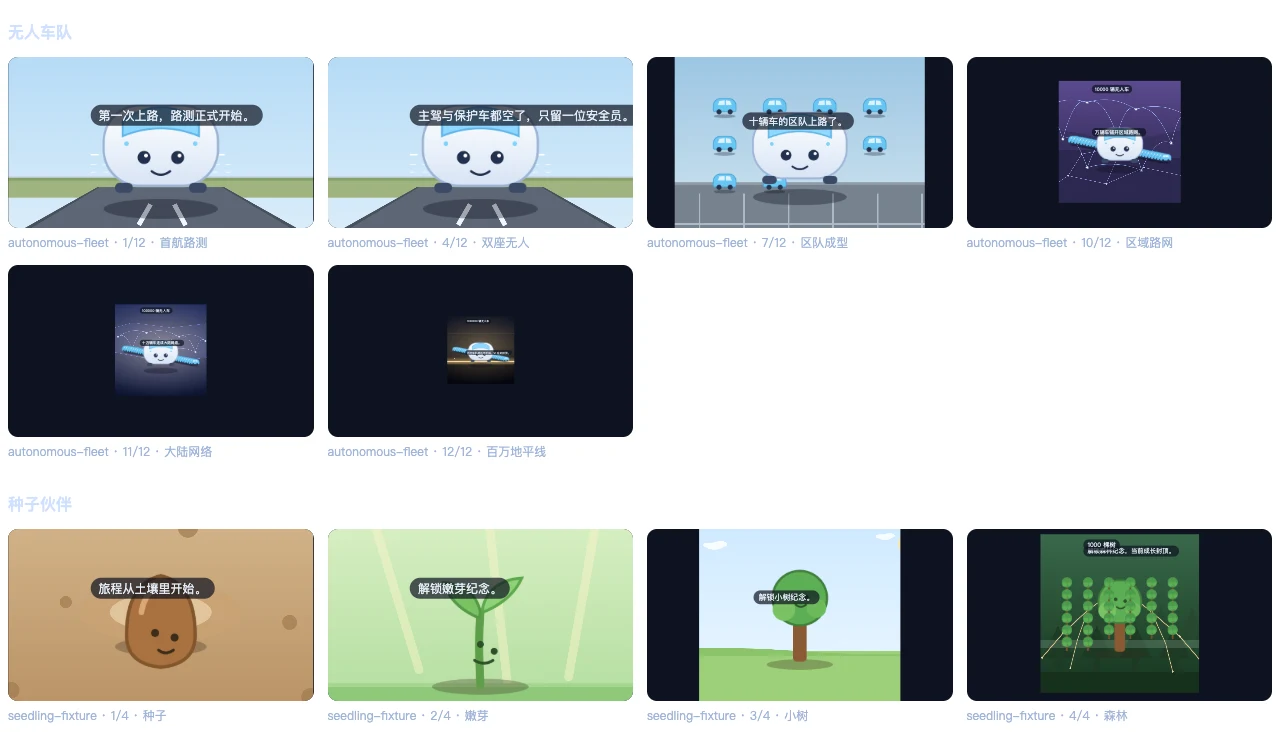
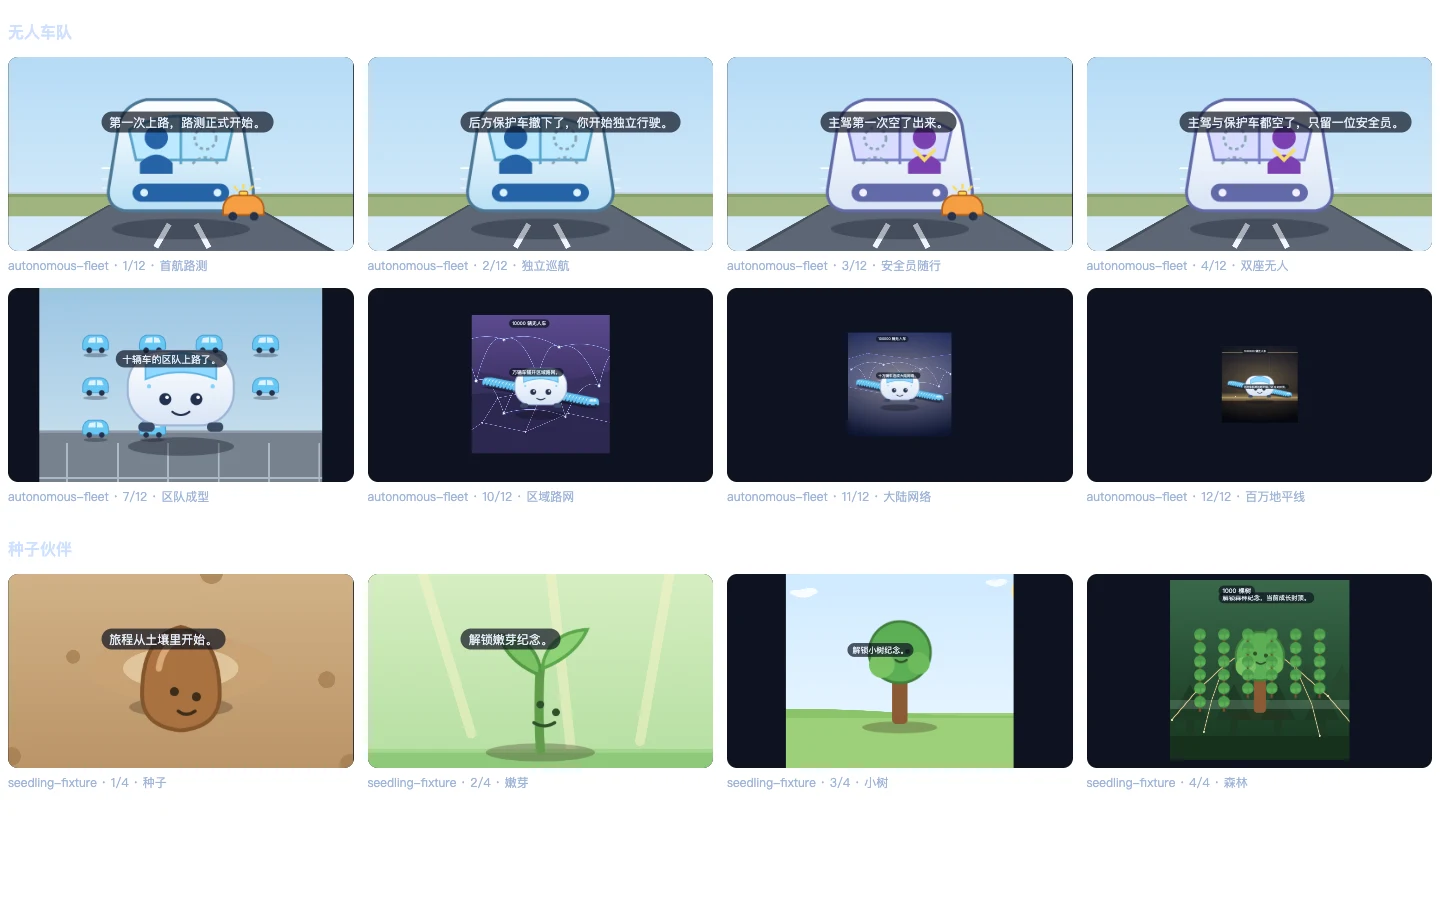
docs: record pr3 r1 blocker conformance

diff --git a/docs/conformance/CONFIGURABLE_PET_ENGINE_V1_CONFORMANCE.md b/docs/conformance/CONFIGURABLE_PET_ENGINE_V1_CONFORMANCE.md
@@ -8,8 +8,9 @@ GOVERNING_SPEC = CONFIGURABLE_PET_ENGINE_V1
 GOVERNING_SPEC_ACCEPTED_HEAD = 6b28e0b4a243384dd84198d74cce9c5f9e2b1dba
 CORE_AND_FLEET_COMMIT = b8d8e5b5e2ccb3a16128a135718eec91fc5ba0d6
 SEEDLING_CONFORMANCE_COMMIT = ed96e1ec7a77e7a54f797dd02b70057faf678d34
+AMENDMENT_R1 = 868bd0a414f4f15410924dc091ba9d2c8c613ee5
 ENVIRONMENT = macOS arm64, Node.js 22, pnpm 10.28.1, local Chrome
-EVALUATED_AT = 2026-08-22T07:00:00Z
+EVALUATED_AT = 2026-08-22T07:44:52Z
 IMPLEMENTATION_STATE = COMPLETE
 VERIFICATION_STATE = SUFFICIENT (author-run local evidence)
 CONFORMANCE = VERIFIED (author evaluation; not an independent audit)
@@ -21,11 +22,11 @@ CONTRACTS_DRIFTED = 0
 CONTRACTS_UNKNOWN = 0
 CONTRACTS_NOT_APPLICABLE = 0
 AUTHOR_CONFORMANCE_EVIDENCE = PASS
-INDEPENDENT_ENGINE_AUDIT = NOT_RUN
-INDEPENDENT_EXPERIENCE_AUDIT = NOT_RUN
+INDEPENDENT_ENGINE_AUDIT = REQUEST_CHANGES (R1 reviewed 2512398cfcb47ea450354a8675473620fdac8318)
+INDEPENDENT_EXPERIENCE_AUDIT = REVISE (R1 reviewed 2512398cfcb47ea450354a8675473620fdac8318)
 ```
 
-This record evaluates the product code at `ed96e1ec7a77e7a54f797dd02b70057faf678d34`. The documentation commit containing this record does not alter evaluated product behavior. `VERIFIED` below means the author linked an executed local Observation to the pinned Contract; it does **not** claim independent review.
+This record evaluates the amended product code at `868bd0a414f4f15410924dc091ba9d2c8c613ee5`. The documentation commit containing this record does not alter evaluated product behavior. `VERIFIED` below means the author linked an executed local Observation to the pinned Contract; it does **not** claim independent review.
 
 ## Executed observations
 
@@ -33,12 +34,12 @@ This record evaluates the product code at `ed96e1ec7a77e7a54f797dd02b70057faf678
 |---|---|---|---|
 | `OBS-IMP-001` | `pnpm typecheck` | PASS | TypeScript production, tests, and tool configs; local environment only. |
 | `OBS-IMP-002` | `pnpm lint` | PASS, 0 warnings/errors | `src`, `tests`, `scripts`; static lint is not runtime proof. |
-| `OBS-IMP-003` | `pnpm test` | PASS, 13 files / 124 tests | Unit/integration with fake IndexedDB; simulated same-origin concurrency. |
-| `OBS-IMP-004` | `pnpm test:e2e` | PASS, 8 browser scenarios | Local Chrome, local Vite resources only; author-run. |
+| `OBS-IMP-003` | `pnpm test` | PASS, 24 files / 152 tests | Unit/DOM integration with fake IndexedDB; simulated same-origin concurrency and mounted renderer measurements. |
+| `OBS-IMP-004` | `pnpm test:e2e` | PASS, 12 browser scenarios | Local Chrome, local Vite resources only; includes clean product route, Fleet L1–L4 visual distinction, and live locale/lang synchronization. |
 | `OBS-IMP-005` | `pnpm build` | PASS | Vite production build including both Packs. |
 | `OBS-IMP-006` | `pnpm check:contracts` | PASS, 14 checks | Mechanical dependency, vocabulary, and forbidden-capability checks. |
-| `OBS-IMP-007` | `pnpm assets:check` | PASS, 46 assets | Re-generated 28 fleet and 18 seedling assets and compared bytes/pixels/metadata. |
-| `OBS-IMP-008` | `verify_governance.py --require-accepted` | PASS | Vendored governance accepted and byte-matched lock at the implementation base. |
+| `OBS-IMP-007` | `pnpm assets:check` | PASS, 54 assets | Re-generated 36 fleet and 18 seedling assets and compared bytes/pixels/metadata. |
+| `OBS-IMP-008` | `verify_governance.py --target . --require-accepted` | PASS | Vendored governance accepted and byte-matched lock at the implementation base. |
 | `OBS-IMP-009` | changed-path diff for Commit 2 | PASS, `src/engine/**` and `src/react/**` changes = 0 | Proves the second Pack was added without Engine/React/schema edits. |
 | `OBS-IMP-010` | browser showcase capture | PASS | Author-generated visual board; not an independent experience audit. |
 
@@ -95,12 +96,42 @@ This record evaluates the product code at `ed96e1ec7a77e7a54f797dd02b70057faf678
 
 ## Visual evidence
 
-[`CONFIGURABLE_PET_ENGINE_V1_SHOWCASE.webp`](CONFIGURABLE_PET_ENGINE_V1_SHOWCASE.webp) contains the required ten states:
+[`CONFIGURABLE_PET_ENGINE_V1_SHOWCASE.webp`](CONFIGURABLE_PET_ENGINE_V1_SHOWCASE.webp) contains twelve states:
 
-- autonomous-fleet: L1, L4, L7, L10, L11, L12;
+- autonomous-fleet: L1, L2, L3, L4, L7, L10, L11, L12, including the four frozen road-test states side-by-side;
 - seedling-fixture: seed, sprout, tree, forest.
 
 The image is an author-generated observation (`OBS-IMP-010`), not an independent experience audit.
+
+## Amendment R1 — independent audit blocker closure
+
+```text
+AMENDMENT_R1 = 868bd0a414f4f15410924dc091ba9d2c8c613ee5
+BLOCKERS_ADDRESSED = E01,E02,E03,E04,E05,E06,E07,E08,E09,E10,X01,X02,X03
+NEW_TESTS = 32
+PNPM_VERIFY = PASS (152 unit/DOM tests; 12 E2E scenarios; 14 contract checks; 54 deterministic assets)
+GOVERNANCE_REQUIRE_ACCEPTED = PASS
+GIT_DIFF_CHECK = PASS
+SPEC_DRIFT = NO
+```
+
+| Blocker | Corrective implementation | Independent, fail-capable regression evidence | R1 result |
+|---|---|---|---|
+| `E01` | Flat renderer nodes and final mounted-DOM budgeting; explicit per-population metadata. | `e01-renderer-dom-budget.test.tsx` mounts Fleet L8–L12 and seedling forest, counts root plus descendants and every real population group. | CLOSED: every scene ≤64 elements; every population ≤32 representatives. |
+| `E02` | Storage adapters atomically claim the complete deterministic receipt batch. | `engine-r1-regressions.test.ts` races two simulated tabs for an exact L3→L8 batch. | CLOSED: one batch winner and at most one merged ceremony. |
+| `E03` | Reduced scene and ceremony paths suppress animation, transform, translate, scale, transitions, pseudo-particles, and camera movement. | `e03-reduced-motion.test.tsx` inspects mounted renderer and actual `UpgradeCeremony` computed styles. | CLOSED. |
+| `E04` | Greeting attempt key is `(sourceId, subjectId, localDay)`; visibility and every interaction remain eligible recheck events. | `greeting-lifecycle.test.tsx` covers midnight-before-interaction, same-day subject reset, visibility regain, and shared-storage tabs. | CLOSED. |
+| `E05` | Registry deep-copies and recursively freezes manifests and registered wrappers. | `pack-registry-immutability.test.ts` mutates both caller input and exposed registered values. | CLOSED. |
+| `E06` | Renderer consumes camera, subject scale, placement, scene transition, upgrade transition/reveal/celebration, and reduced-motion presets. | `e06-renderer-preset-semantics.test.tsx`, `render-plan-subject-swap.test.ts`, and preset unit corpus. | CLOSED; no dead whitelisted preset path. |
+| `E07` | Invalid default Pack gates startup before any persisted alternate can be selected. | `engine-r1-regressions.test.ts` persists a valid alternate while corrupting the default, then checks terminal state, retained progress, and zero receipts. | CLOSED: explicit `pack-unavailable`. |
+| `E08` | `boundSourceId` is session-wide, independent of subject lookup. | `engine-r1-regressions.test.ts` changes source and subject simultaneously. | CLOSED: whole snapshot rejected with no progress/receipt change. |
+| `E09` | Subject reset increments the presentation epoch and clears the old pending domain. | Deferred batch race in `engine-r1-regressions.test.ts`. | CLOSED: old subject ceremony cannot reach the new subject UI. |
+| `E10` | Pack switch/version identity isolates pending and in-flight presentation state. | Deferred switch race and version-domain baseline tests in `engine-r1-regressions.test.ts`. | CLOSED: zero old-Pack ceremony leakage. |
+| `X01` | `/` is the product Pet surface; developer controls/diagnostics require `?dev=1`; showcase requires `?showcase=1`. | `experience-blockers.spec.ts` asserts the default route omits prototype, source, fault, raw diagnostic, storage, and debug copy. | CLOSED. |
+| `X02` | Frozen L1–L5 `sceneId=road-test` remains unchanged; explicit Pack assets are selected by the existing `subject-swap` plus keepsake asset seam. | `fleet-frozen-states.test.ts`, subject-swap tests, and screenshot-pixel distinction for L1–L4 in `experience-blockers.spec.ts`. | CLOSED without Engine domain branches or Spec drift. |
+| `X03` | Product title/greeting/Host feedback colors meet AA mechanics; provider synchronizes `<html lang>` immediately. | Actual component contrast tests plus `x03-locale-lang.spec.ts` zh-CN↔en browser assertions. | CLOSED. |
+
+These are author-run amendment observations addressing the reported independent-audit failures. They prepare a new exact Head for independent re-audit; they do not convert the prior `REQUEST_CHANGES` / `REVISE` decisions into independent acceptance.
 
 ## Explicit negative capability result
 
@@ -119,8 +150,8 @@ RUNTIME_PACK_INSTALLER = NO
 
 ```text
 AUTHOR_CONFORMANCE_EVIDENCE = PASS
-INDEPENDENT_ENGINE_AUDIT = NOT_RUN
-INDEPENDENT_EXPERIENCE_AUDIT = NOT_RUN
+INDEPENDENT_ENGINE_AUDIT = REQUEST_CHANGES (R1 reviewed 2512398cfcb47ea450354a8675473620fdac8318)
+INDEPENDENT_EXPERIENCE_AUDIT = REVISE (R1 reviewed 2512398cfcb47ea450354a8675473620fdac8318)
 READY_FOR_INDEPENDENT_ENGINE_AUDIT = YES
 READY_FOR_INDEPENDENT_EXPERIENCE_AUDIT = YES
 ```
